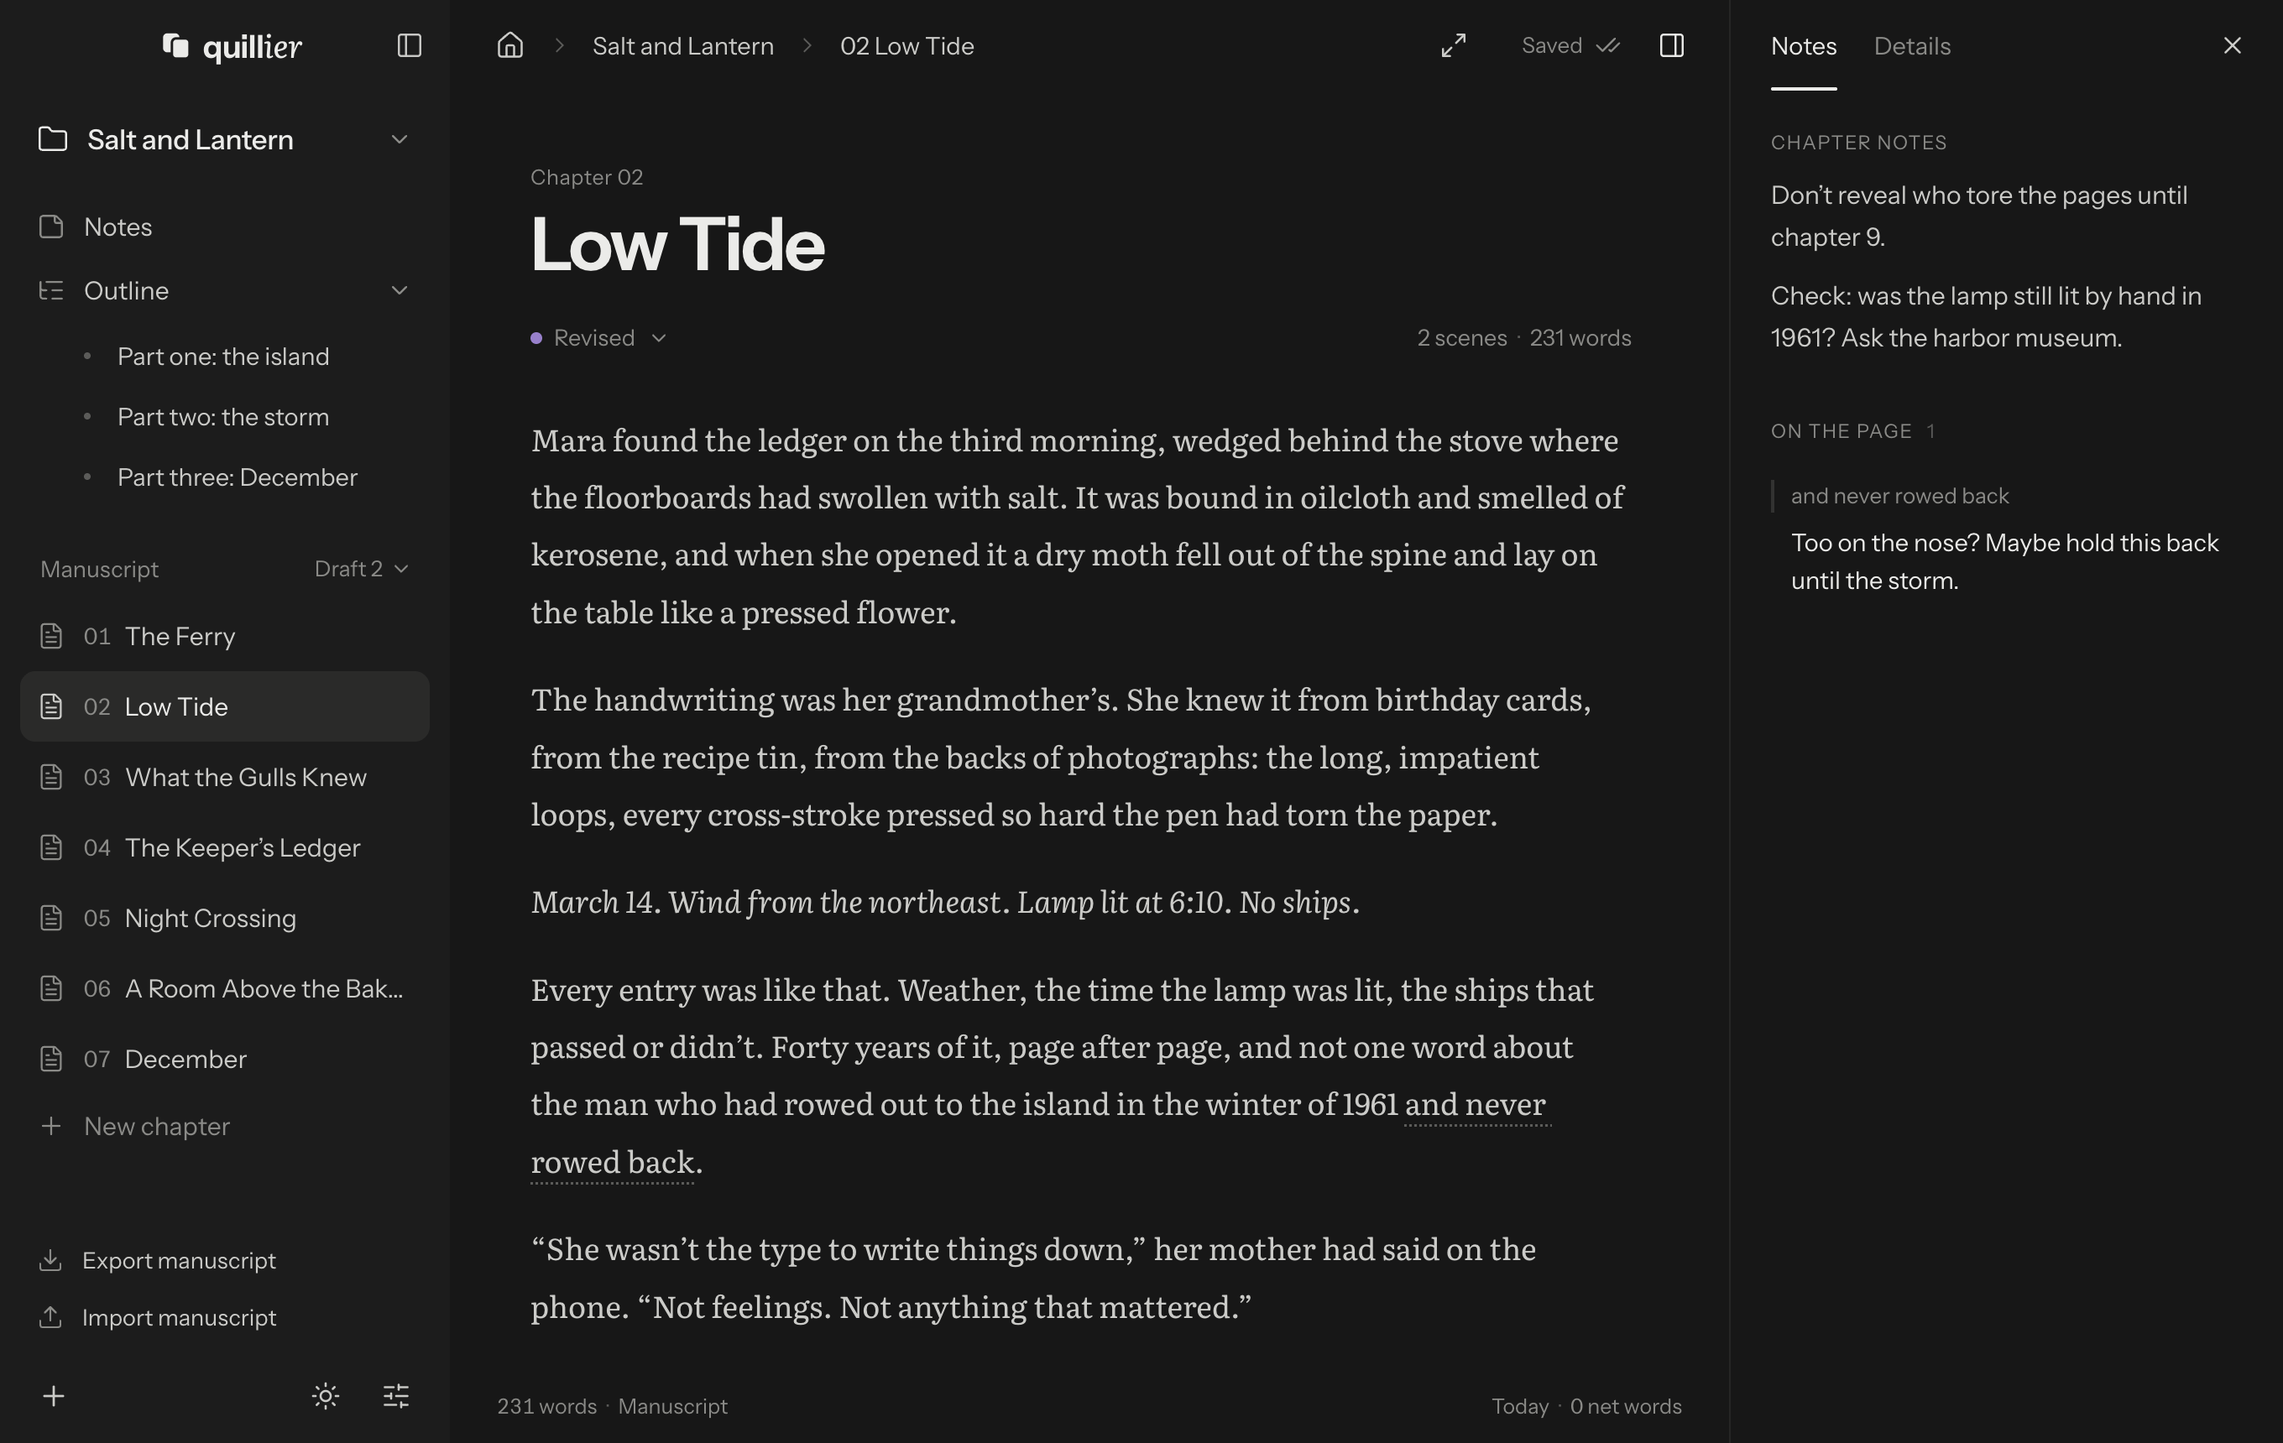
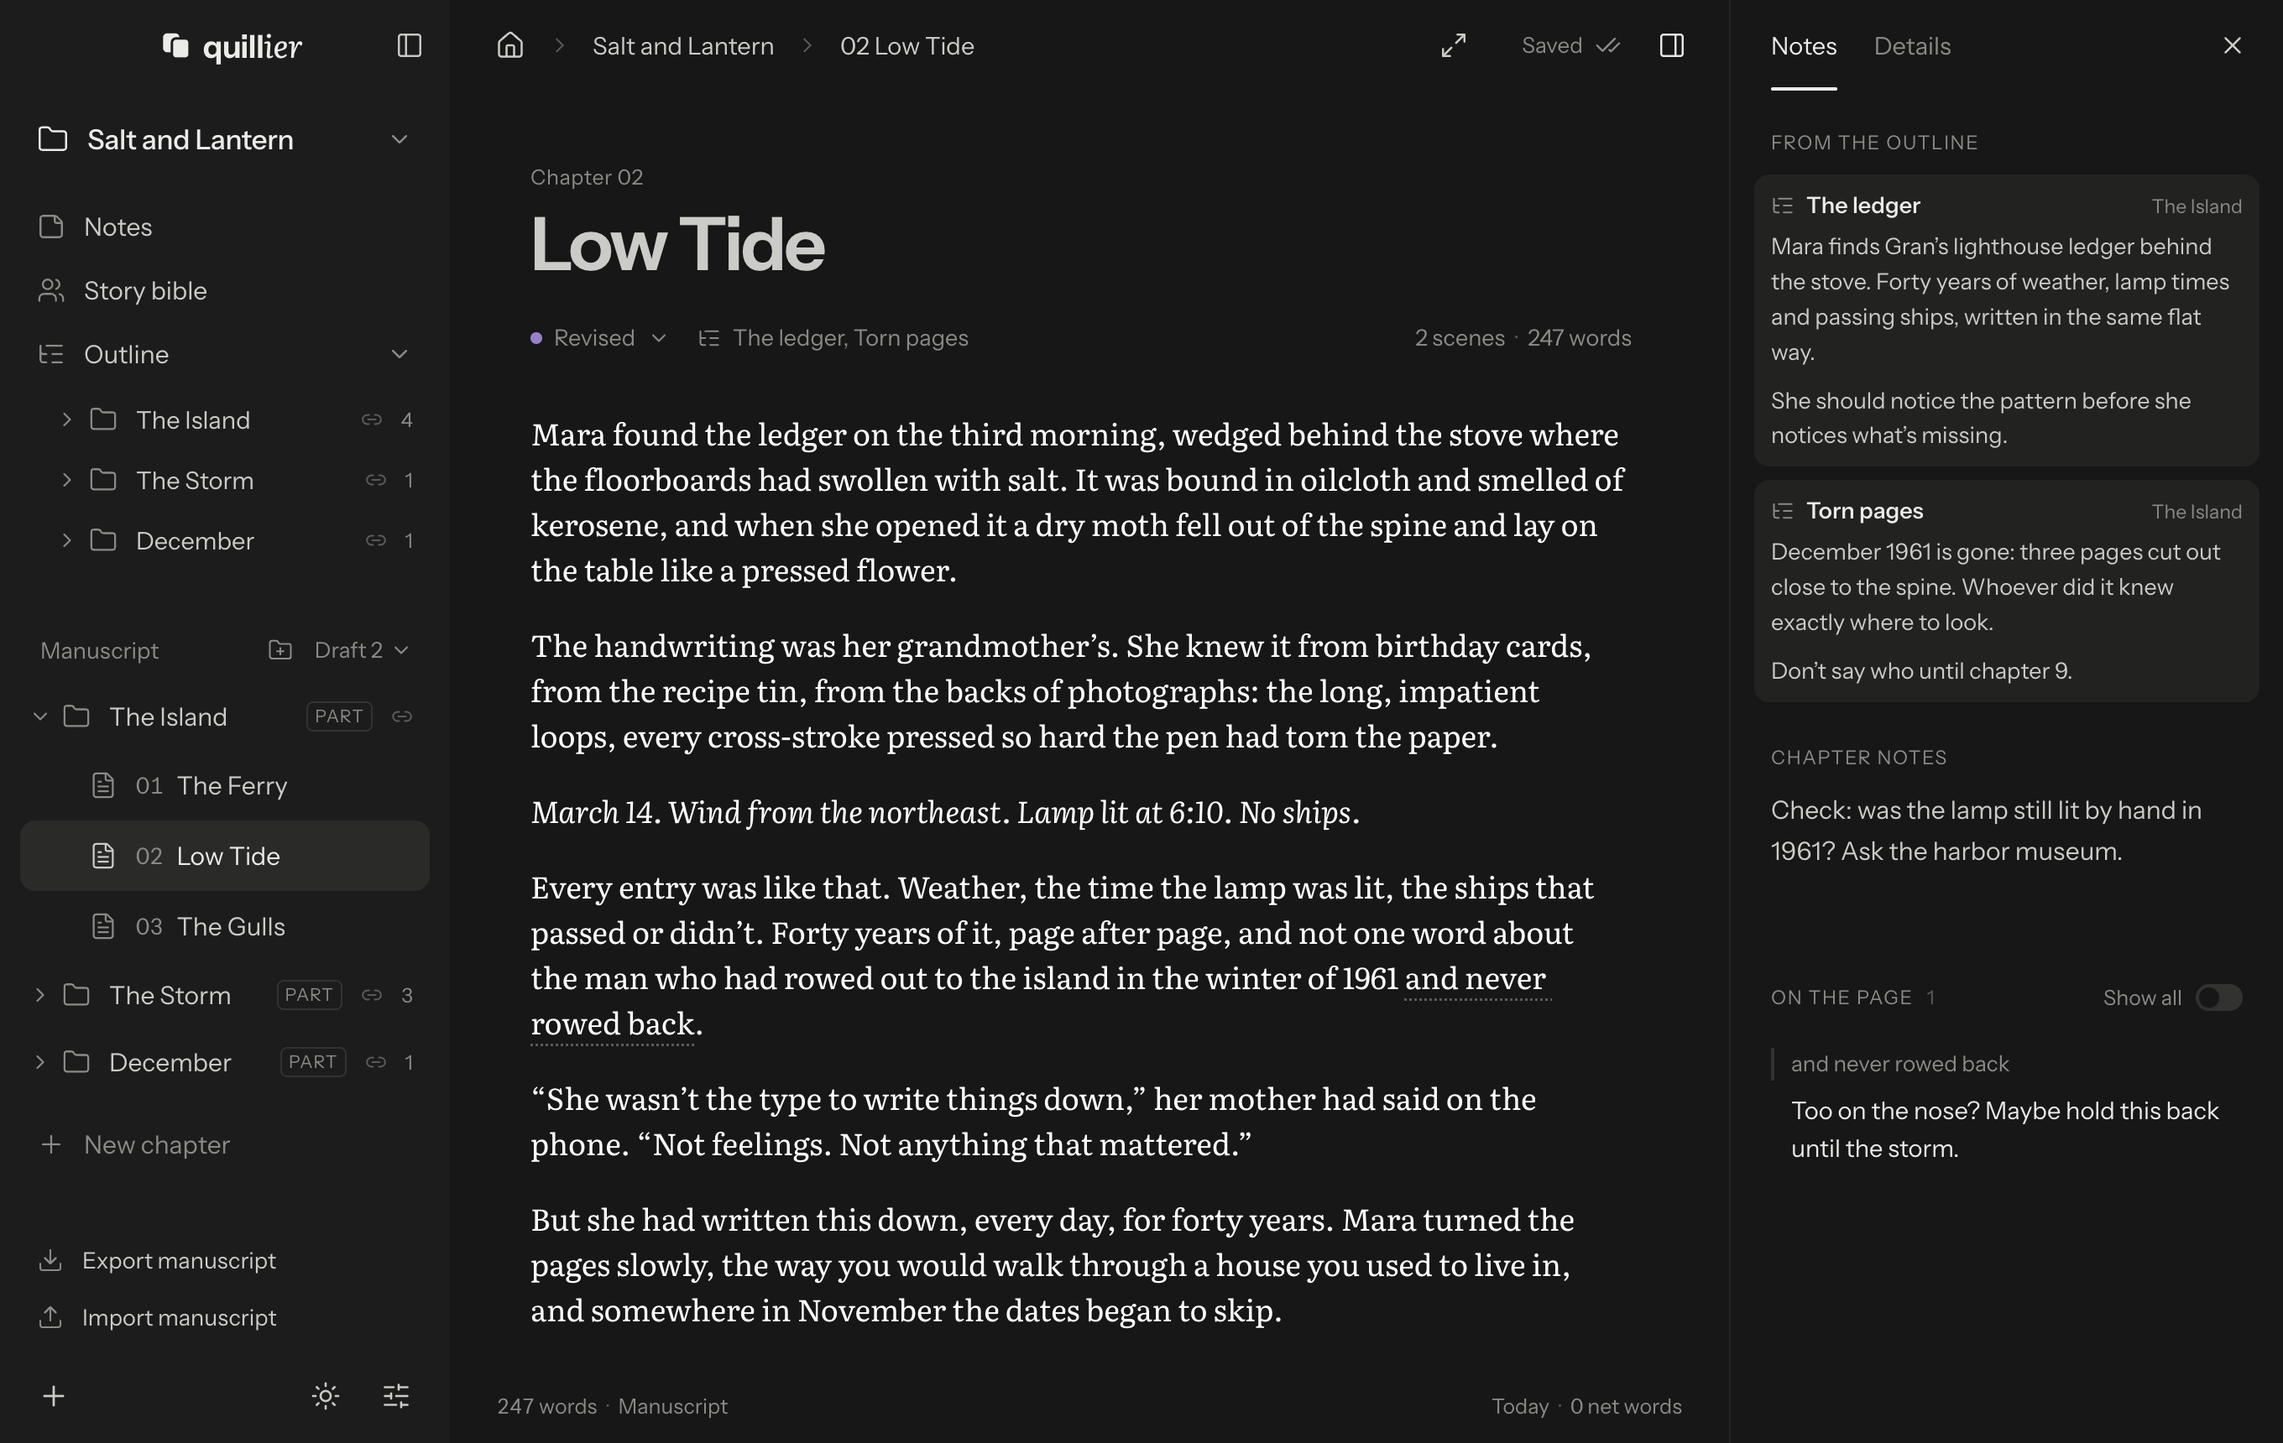
Show folders, book parts, the linked outline, and journals and notebooks on the website

diff --git a/site/index.html b/site/index.html
@@ -860,12 +860,67 @@
         line-height: 1.62;
       }
 
-      /* chapters and their statuses */
-      .chapters {
+      /* folders, chapters and their statuses */
+      .tree {
+        align-self: flex-start;
         width: 100%;
-        max-width: 300px;
-        margin: 0;
+        max-width: 320px;
+        margin-top: 6px;
+      }
+      .fold {
+        display: flex;
+        gap: 8px;
+        align-items: center;
+        width: 100%;
+        height: 36px;
         padding: 0;
+        border: 0;
+        background: none;
+        font-size: 14.5px;
+        font-weight: 500;
+        color: var(--ink);
+        text-align: left;
+        cursor: pointer;
+      }
+      .fold svg {
+        flex: none;
+        color: var(--quiet);
+      }
+      .fold .chev {
+        width: 12px;
+        height: 12px;
+        transition: transform 0.25s var(--ease);
+      }
+      .folder:not(.open) .chev {
+        transform: rotate(-90deg);
+      }
+      .fold .ico {
+        width: 15px;
+        height: 15px;
+      }
+      .tag {
+        margin-left: auto;
+        padding: 0 6px;
+        border-radius: 5px;
+        box-shadow: inset 0 0 0 1px var(--rule);
+        font-size: 11.5px;
+        line-height: 19px;
+        font-weight: 500;
+        color: var(--quiet);
+      }
+      .kids {
+        display: grid;
+        grid-template-rows: 1fr;
+        transition: grid-template-rows 0.3s var(--ease);
+      }
+      .folder:not(.open) .kids {
+        grid-template-rows: 0fr;
+      }
+      .chapters {
+        min-height: 0;
+        margin: 0;
+        padding: 0 0 0 20px;
+        overflow: hidden;
         list-style: none;
       }
       .chapters li {
@@ -873,7 +928,7 @@
         grid-template-columns: 22px minmax(0, 1fr) auto;
         column-gap: 8px;
         align-items: center;
-        height: 40px;
+        height: 36px;
         font-size: 14.5px;
         color: var(--ink);
       }
@@ -1264,6 +1319,81 @@
         color: var(--ink-2);
       }
 
+      /* journals and notebooks */
+      .spec.full {
+        grid-column: 1 / -1;
+      }
+      .kinds {
+        display: grid;
+        grid-template-columns: repeat(2, minmax(0, 260px));
+        justify-content: center;
+        align-items: start;
+        gap: 72px;
+        width: 100%;
+      }
+      .kind-label {
+        margin: 0 0 8px;
+        font-size: 12px;
+        font-weight: 500;
+        letter-spacing: 0.06em;
+        text-transform: uppercase;
+        color: var(--quiet);
+      }
+      .journal-list,
+      .note-tree {
+        margin: 0;
+        padding: 0;
+        list-style: none;
+      }
+      .journal-list .month {
+        display: block;
+        height: auto;
+        padding: 10px 0 2px;
+        font-size: 13px;
+        color: var(--quiet);
+      }
+      .journal-list li,
+      .note-tree li {
+        display: flex;
+        align-items: center;
+        gap: 12px;
+        height: 40px;
+        font-size: 14.5px;
+        color: var(--ink);
+        white-space: nowrap;
+      }
+      .day {
+        display: inline-flex;
+        flex-direction: column;
+        align-items: center;
+        flex: none;
+        width: 26px;
+        font-size: 10px;
+        line-height: 1.15;
+        letter-spacing: 0.05em;
+        text-transform: uppercase;
+        color: var(--quiet);
+      }
+      .day b {
+        font-size: 15px;
+        font-weight: 600;
+        letter-spacing: 0;
+        color: var(--ink);
+      }
+      .note-tree li {
+        gap: 9px;
+        height: 34px;
+      }
+      .note-tree li.in {
+        padding-left: 22px;
+      }
+      .note-tree svg {
+        flex: none;
+        width: 15px;
+        height: 15px;
+        color: var(--quiet);
+      }
+
       /* ---------- one file ---------- */
 
       .file-sec {
@@ -1526,6 +1656,10 @@
           min-height: 240px;
           padding: 24px 20px;
         }
+        .kinds {
+          grid-template-columns: minmax(0, 1fr);
+          gap: 24px;
+        }
         .acts {
           grid-template-columns: minmax(0, 1fr);
           gap: 16px;
@@ -1764,8 +1898,8 @@
           <h2 id="h-book">Made for a whole book</h2>
           <div class="body">
             <p>
-              Chapters, an outline, drafts and notes sit side by side, and the finished manuscript exports in the formats agents, editors and
-              ebook stores expect.
+              Chapters in folders and parts, an outline that knows which chapters cover it, drafts and notes, all side by side. The finished
+              manuscript exports in the formats agents, editors and ebook stores expect.
             </p>
           </div>
         </div>
@@ -1777,7 +1911,7 @@
               src="app-light.png"
               width="2720"
               height="1720"
-              alt="Quillier with a novel open: chapters in the sidebar, the chapter text in the middle, and notes on the right."
+              alt="Quillier with a novel open: the outline and the manuscript's three parts in the sidebar, a chapter in the middle, and on the right the two outline beats it covers, a chapter note and a note on a passage."
             />
             <svg viewBox="0 0 1360 860" aria-hidden="true">
               <circle cx="25" cy="25" r="6" fill="#ff5f57" stroke="rgba(0,0,0,.14)" stroke-width=".6" />
@@ -1786,7 +1920,10 @@
             </svg>
           </div>
           <figcaption>
-            <p>Chapters on the left, notes on the right. Focus mode hides everything but the page, and dark mode has a pure black setting for OLED screens.</p>
+            <p>
+              This chapter covers two beats in the outline, so what you planned for them sits beside it while you write. Focus mode hides
+              everything but the page.
+            </p>
             <span class="seg" role="group" aria-label="Screenshot theme">
               <button type="button" data-theme="light" aria-pressed="true">Light</button>
               <button type="button" data-theme="dark" aria-pressed="false">Dark</button>
@@ -1797,16 +1934,33 @@
         <div class="specimens">
           <div class="spec">
             <div class="spec-fig">
-              <ul class="chapters" id="chapters">
-                <li><span class="num">01</span><span class="t">The Ferry</span><button class="status" data-s="done" type="button">Done</button></li>
-                <li><span class="num">02</span><span class="t">Low Tide</span><button class="status" data-s="revised" type="button">Revised</button></li>
-                <li><span class="num">03</span><span class="t">What the Gulls Knew</span><button class="status" data-s="drafted" type="button">Drafted</button></li>
-                <li><span class="num">04</span><span class="t">The Keeper’s Ledger</span><button class="status" data-s="progress" type="button">In progress</button></li>
-                <li><span class="num">05</span><span class="t">Night Crossing</span><button class="status" data-s="idea" type="button">Not started</button></li>
-              </ul>
+              <div class="tree" id="chapters">
+                <div class="folder open">
+                  <button class="fold" type="button" aria-expanded="true"><svg class="chev" viewBox="0 0 12 12" fill="none" stroke="currentColor" stroke-width="1.4" aria-hidden="true"><path d="M3 4.5l3 3 3-3"/></svg><svg class="ico" viewBox="0 0 16 16" fill="none" stroke="currentColor" stroke-width="1.3" aria-hidden="true"><path d="M1.5 4.5v8.5h13V5.5H8L6.5 3.5h-5z"/></svg><span class="t">The Island</span><span class="tag">Part</span></button>
+                  <div class="kids">
+                    <ul class="chapters">
+                      <li><span class="num">01</span><span class="t">The Ferry</span><button class="status" data-s="done" type="button">Done</button></li>
+                      <li><span class="num">02</span><span class="t">Low Tide</span><button class="status" data-s="revised" type="button">Revised</button></li>
+                      <li><span class="num">03</span><span class="t">The Gulls</span><button class="status" data-s="drafted" type="button">Drafted</button></li>
+                    </ul>
+                  </div>
+                </div>
+                <div class="folder open">
+                  <button class="fold" type="button" aria-expanded="true"><svg class="chev" viewBox="0 0 12 12" fill="none" stroke="currentColor" stroke-width="1.4" aria-hidden="true"><path d="M3 4.5l3 3 3-3"/></svg><svg class="ico" viewBox="0 0 16 16" fill="none" stroke="currentColor" stroke-width="1.3" aria-hidden="true"><path d="M1.5 4.5v8.5h13V5.5H8L6.5 3.5h-5z"/></svg><span class="t">The Storm</span><span class="tag">Part</span></button>
+                  <div class="kids">
+                    <ul class="chapters">
+                      <li><span class="num">04</span><span class="t">The Keeper’s Ledger</span><button class="status" data-s="progress" type="button">In progress</button></li>
+                      <li><span class="num">05</span><span class="t">Night Crossing</span><button class="status" data-s="idea" type="button">Not started</button></li>
+                    </ul>
+                  </div>
+                </div>
+              </div>
             </div>
-            <h3>Chapters, in order</h3>
-            <p>Reorder and rename chapters in the sidebar, and mark each one not started, in progress, drafted, revised or done. Click a status to change it.</p>
+            <h3>Folders and book parts</h3>
+            <p>
+              File chapters in folders, as deep as you like; the numbers run straight through. A folder marked as a book part opens with a
+              “Part One” page in every export. Click a status to change it.
+            </p>
           </div>
 
           <div class="spec wide">
@@ -1816,10 +1970,10 @@
                 <div class="acts" id="acts"></div>
               </div>
             </div>
-            <h3>Start from a story structure</h3>
+            <h3>An outline linked to the book</h3>
             <p>
-              Start blank, or from one of five structures. Each beat gets an outline page explaining what happens there, ready to write over,
-              and chapters link to the beats they cover.
+              Start blank, or from one of five structures, each beat explained and ready to write over. Outline folders can appear in the
+              manuscript, and a chapter linked to its beats shows their notes as you write.
             </p>
           </div>
 
@@ -1921,7 +2075,7 @@
             <h3>Export for submission</h3>
             <p>
               Standard manuscript format as a PDF for agents and editors, an EPUB that passes the W3C’s checker, a book-style PDF, HTML or
-              Markdown.
+              Markdown. Book parts get a page of their own in each.
             </p>
           </div>
 
@@ -1940,6 +2094,38 @@
             </div>
             <h3>One bible for a whole series</h3>
             <p>Books in a series share a story bible, and a relationship can change from one book to the next.</p>
+          </div>
+
+          <div class="spec full">
+            <div class="spec-fig">
+              <div class="kinds" aria-hidden="true">
+                <div>
+                  <p class="kind-label">Journal</p>
+                  <ul class="journal-list">
+                    <li class="month">October</li>
+                    <li><span class="day"><b>27</b>Tue</span>Walked out to the light</li>
+                    <li><span class="day"><b>24</b>Sat</span>First cold morning</li>
+                    <li class="month">September</li>
+                    <li><span class="day"><b>17</b>Thu</span>Notes from the ferry</li>
+                  </ul>
+                </div>
+                <div>
+                  <p class="kind-label">Notebook</p>
+                  <ul class="note-tree">
+                    <li><svg viewBox="0 0 16 16" fill="none" stroke="currentColor" stroke-width="1.3" aria-hidden="true"><path d="M1.5 4.5v8.5h13V5.5H8L6.5 3.5h-5z"/></svg>Research</li>
+                    <li class="in"><svg viewBox="0 0 16 16" fill="none" stroke="currentColor" stroke-width="1.3" aria-hidden="true"><path d="M3.5 1.5h6l3 3v10h-9z"/><path d="M9.5 1.5v3h3"/></svg>Lighthouses of the coast</li>
+                    <li class="in"><svg viewBox="0 0 16 16" fill="none" stroke="currentColor" stroke-width="1.3" aria-hidden="true"><path d="M3.5 1.5h6l3 3v10h-9z"/><path d="M9.5 1.5v3h3"/></svg>Tide tables</li>
+                    <li><svg viewBox="0 0 16 16" fill="none" stroke="currentColor" stroke-width="1.3" aria-hidden="true"><path d="M1.5 4.5v8.5h13V5.5H8L6.5 3.5h-5z"/></svg>Interviews</li>
+                    <li class="in"><svg viewBox="0 0 16 16" fill="none" stroke="currentColor" stroke-width="1.3" aria-hidden="true"><path d="M3.5 1.5h6l3 3v10h-9z"/><path d="M9.5 1.5v3h3"/></svg>The harbourmaster</li>
+                  </ul>
+                </div>
+              </div>
+            </div>
+            <h3>Journals and notebooks, too</h3>
+            <p>
+              Keep a journal of dated entries, newest first, or a notebook of pages in folders for the research behind a book. The same quiet
+              editor, saved the same way.
+            </p>
           </div>
         </div>
       </section>
@@ -1964,6 +2150,12 @@
   "drafts": [{
     "name": <b>"Draft 2"</b>,
     "chapters": [{
+      "id": <b>"4f1c0a9e2b7d"</b>,
+      "type": <b>"folder"</b>,
+      "title": <b>"The Island"</b>,
+      "part": <b>true</b>
+    }, {
+      "parent": <b>"4f1c0a9e2b7d"</b>,
       "title": <b>"Low Tide"</b>,
       "status": <b>"revised"</b>,
       "content": <b>"Mara found the ledger on the third morning, wedged behind the stove…\n\n*March 14. Wind from the northeast. Lamp lit at 6:10. No ships.*"</b>
@@ -2355,6 +2547,13 @@
         ['revised', 'Revised'],
         ['done', 'Done'],
       ];
+      for (const b of document.querySelectorAll('#chapters .fold')) {
+        b.addEventListener('click', () => {
+          const open = b.parentElement.classList.toggle('open');
+          b.setAttribute('aria-expanded', open);
+          b.nextElementSibling.inert = !open;
+        });
+      }
       for (const b of document.querySelectorAll('#chapters .status')) {
         b.addEventListener('click', () => {
           const i = STATUSES.findIndex(([id]) => id === b.dataset.s);
